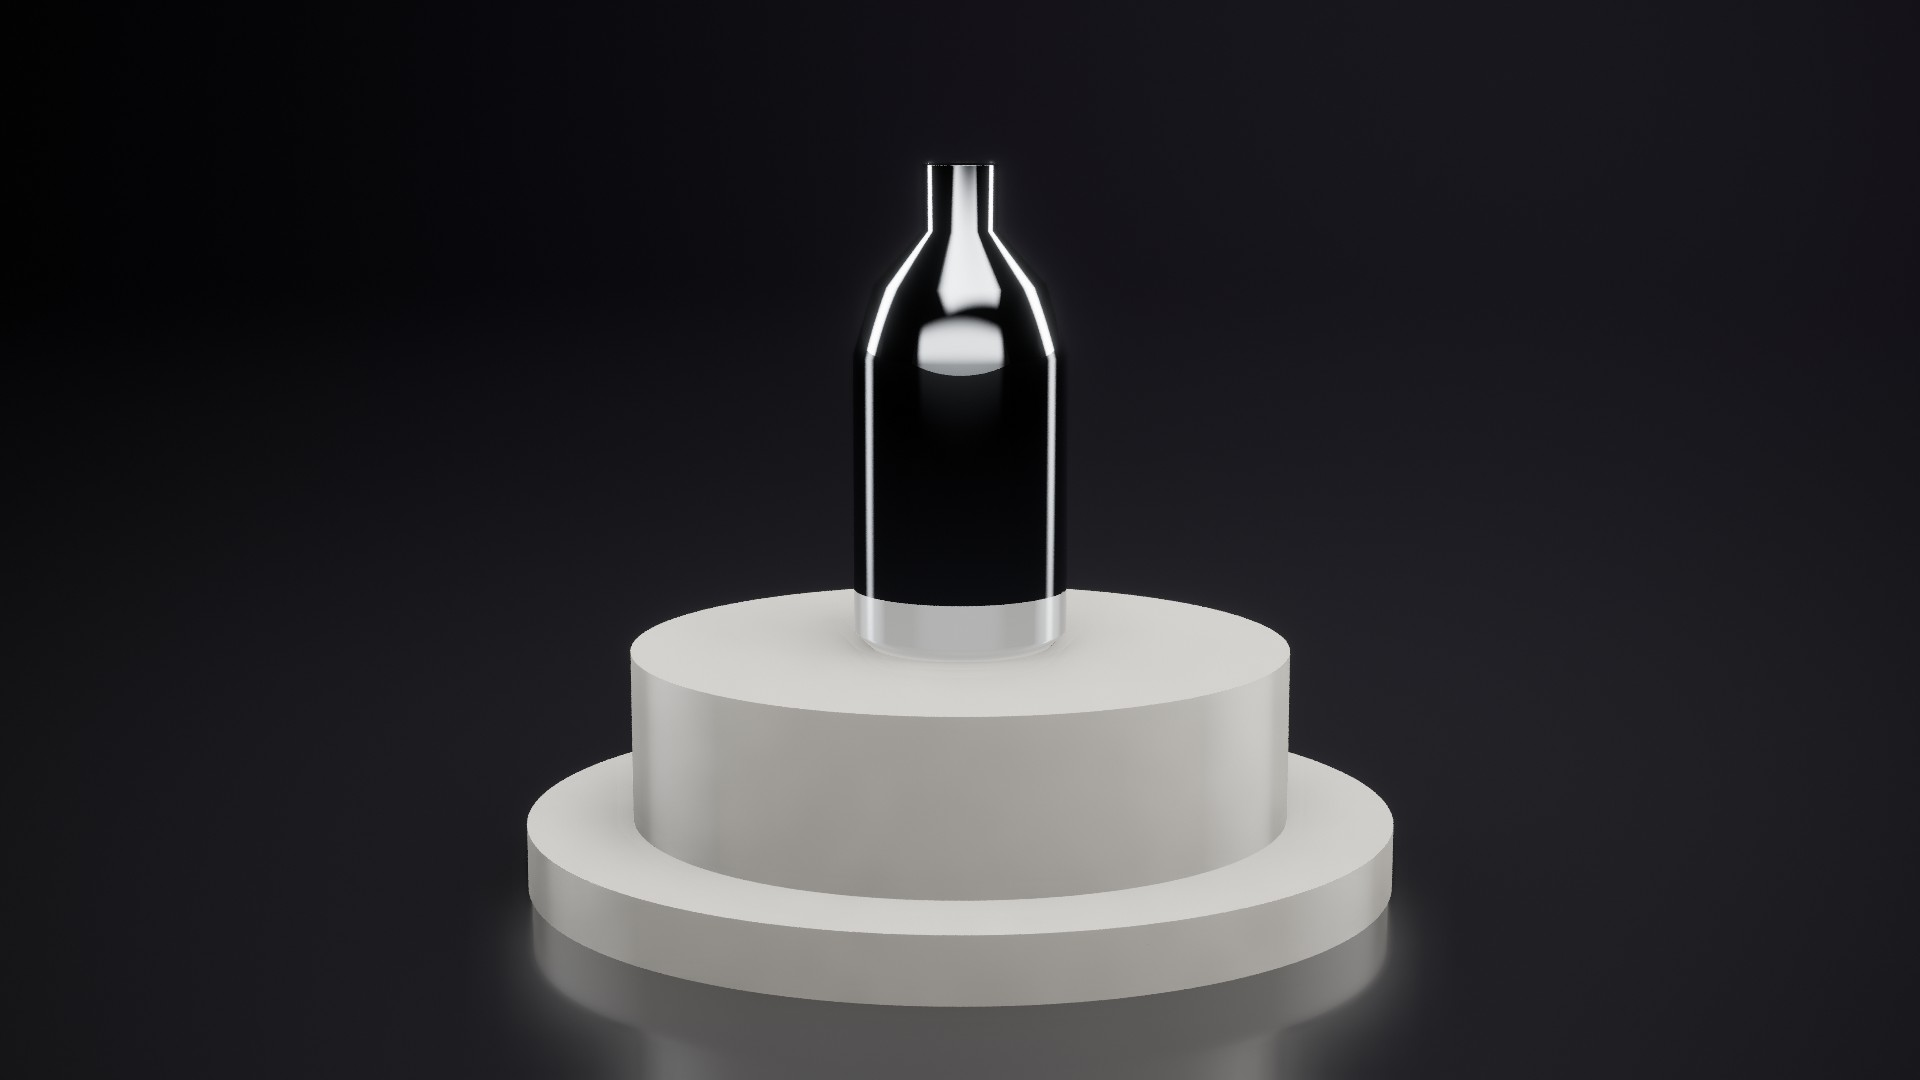
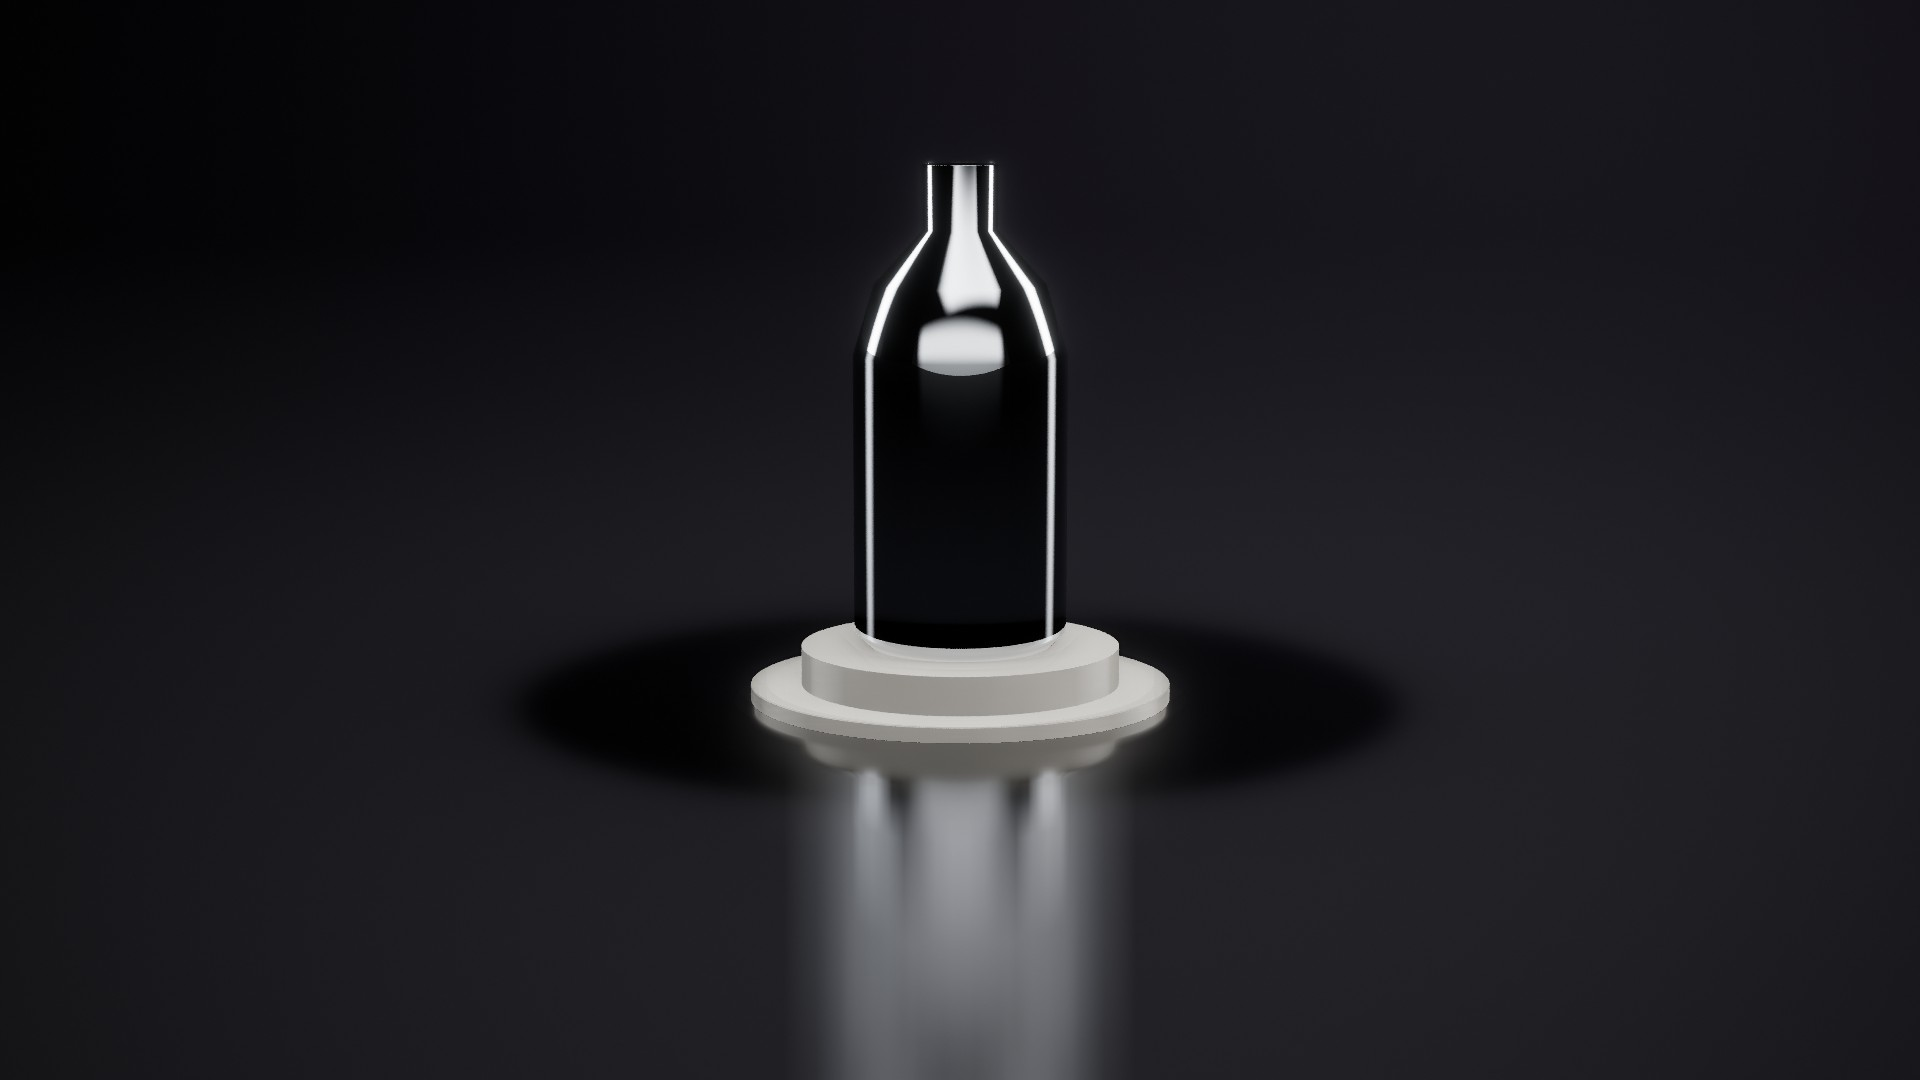
scene3d: sets fit the subject (plinth radius from its footprint, field clearing); docs 3d leads with a premium product hero (rig sweep, fitted plinth, 85 mm, breath, imperfections)
Claude-Session: https://claude.ai/code/session_01YBqayaET7JSh2nx9HSb69L

Changed region(s): [[0.25, 0.55, 0.75, 1.0]]

diff --git a/crates/anikit-video/src/scene3d/sets.rs b/crates/anikit-video/src/scene3d/sets.rs
@@ -26,7 +26,8 @@ pub struct Built {
     pub no_floor: bool,
 }
 
-pub fn build(v: &Value, path: &str) -> Res<Built> {
+/// `fit`: the subject's footprint half-width (m), so stands and clearings fit it.
+pub fn build(v: &Value, path: &str, fit: Option<f32>) -> Res<Built> {
     let mut out = Built { objects: Vec::new(), floor_y: None, no_floor: false };
     let list: Vec<(usize, &Value)> = match v {
         Value::Array(a) => a.iter().enumerate().collect(),
@@ -54,7 +55,12 @@ pub fn build(v: &Value, path: &str) -> Res<Built> {
         match name.as_str() {
             "plinth" | "podium" => {
                 let square = name == "podium" || m.get("shape").and_then(|s| s.as_str()) == Some("square");
-                let (r, h) = (0.62 * size, 0.32 * size);
+                // Fit the subject with a 15% margin, unless `size` is given.
+                let r = match (m.contains_key("size"), fit) {
+                    (false, Some(w)) => (w * 1.15).max(0.3),
+                    _ => 0.62 * size,
+                };
+                let h = (0.32 * size).min(r * 0.24);
                 let (r2, h2) = (r * 1.32, h * 0.38);
                 let top = mat("#D8D4CD", 0.5);
                 if square {
@@ -101,7 +107,8 @@ pub fn build(v: &Value, path: &str) -> Res<Built> {
                 // so it frames the subject instead of hiding it.
                 let z = format!("(floor(i/{cols})-{half})*{sp}-{}", (half * sp - 1.0 * size).max(0.0));
                 let hgt = format!("({}+{}*max(0,noise2({x}*0.55,{z}*0.55)+0.35)*(0.25+0.75*clamp(-({z})/{},0,1)))", 0.05 * size, 1.8 * size, 6.0 * size);
-                let clear = format!("smoothstep({},{},hypot({x},{z}))", 1.3 * size, 1.9 * size);
+                let c0 = (1.3 * size).max(fit.unwrap_or(0.0) * 1.3);
+                let clear = format!("smoothstep({},{},hypot({x},{z}))", c0, c0 + 0.6 * size);
                 out.objects.push(json!({
                     "type": "box",
                     "count": cols * cols,

diff --git a/crates/anikit-video/src/scene3d/mod.rs b/crates/anikit-video/src/scene3d/mod.rs
@@ -314,11 +314,8 @@ impl Prepare for Scene3d {
             None => objs_v,
         };
         // `set`: a stage built around the subject (plinth, steps, field, ...).
-        let set = m.get("set").map(|v| sets::build(v, "set")).transpose().map_err(Error)?;
-        let objs_v: Vec<Value> = match &set {
-            Some(b) => objs_v.into_iter().chain(b.objects.iter().cloned()).collect(),
-            None => objs_v,
-        };
+        // (Built after the objects below, so a plinth fits the subject.)
+        let mut set: Option<sets::Built> = None;
         let outline = match m.get("outline") {
             None if look_outline => Some((1.6, [22u8, 20, 24])),
             None | Some(Value::Bool(false)) => None,
@@ -342,6 +339,21 @@ impl Prepare for Scene3d {
                 continue;
             }
             objs.push(spec::object(o, &mut shapes, &mut mats, &named, &format!("objects[{i}]")).map_err(Error)?);
+        }
+        if let Some(sv) = m.get("set") {
+            // The subject's footprint (half-width on the floor) at t = 0.
+            let mut probe = Scene::new(shapes.list.clone(), mats.clone(), Vec::new(), es.env.clone(), None);
+            probe.insts = instances(&objs, 0.0, 0.0);
+            let mut fit: f32 = 0.0;
+            for i in &probe.insts {
+                let (a, b) = probe.world_box(i);
+                fit = fit.max(a.x.abs()).max(b.x.abs()).max(a.z.abs()).max(b.z.abs());
+            }
+            let built = sets::build(sv, "set", (fit > 0.0).then_some(fit)).map_err(Error)?;
+            for (k, o) in built.objects.iter().enumerate() {
+                objs.push(spec::object(o, &mut shapes, &mut mats, &named, &format!("set[{k}]")).map_err(Error)?);
+            }
+            set = Some(built);
         }
 
         // Physics: body groups become objects whose transforms come from the simulation.

diff --git a/crates/anikit-video/docs-cli/3d.md b/crates/anikit-video/docs-cli/3d.md
@@ -1,14 +1,16 @@
 # 3D: `scene3d` (ray-traced PBR)
 
+A premium product hero: a lighting rig with a strip sweep, a plinth that fits the subject, a portrait lens with breath and imperfections (proof: docs/video/shots/3d-sets/hero.jpg).
+
 ```json
 { "scenes": [ { "duration": 4, "layers": [ { "component": "scene3d", "props": {
-  "env": "studio",
-  "camera": { "keys": [ { "t": 0, "pos": [-3, 1.2, 6], "target": [0, 0.5, 0], "focal": 40, "fstop": 2.8 },
-                        { "t": 4, "pos": [3, 1.0, 5], "target": [0, 0.5, 0], "focal": 50 } ] },
+  "env": "studio", "rig": { "preset": "product", "animate": "sweep", "duration": 4 }, "set": { "preset": "plinth", "color": "#2A2B30" },
+  "camera": { "lens": "portrait85", "shake": "breath", "keys": [
+    { "t": 0, "pos": [-1.6, 1.5, 9.5], "target": [0, 0.15, 0], "focus": "logo", "fstop": 4 },
+    { "t": 4, "pos": [1.2, 1.2, 8.8], "target": [0, 0.15, 0], "focus": "logo", "fstop": 4 } ] },
   "objects": [
-    { "text": "ANIKIT", "height": 0.7, "material": "chrome", "spin": 10 },
-    { "type": "sphere", "radius": 0.35, "pos": [1.8, 0.35, 0.5], "material": "glass" },
-    { "type": "box", "count": 40, "size": [0.12, 0.12, 0.12], "pos": "=[cos(i*0.6)*2.5, 0.06, sin(i*0.6)*2.5 - 1]", "material": "gold" } ] } } ] } ] }
+    { "text": "ANIKIT", "name": "logo", "height": 0.42, "material": { "extends": "chrome", "imperfections": 0.25 } },
+    { "type": "sphere", "radius": 0.16, "pos": [0.95, 0.16, 0.55], "material": { "extends": "glass", "smudges": 0.4 } } ] } } ] } ] }
 ```
 
 - **Different looks, not just studio chrome:** `"look": "toon|ink|clay|paper|cardboard|gouache"` (an object's `color` tints it; `outline: true|px|{width,color}`); envs `overcast interior city underwater` (caustics). Stills: docs/video/shots/3d-looks/.
